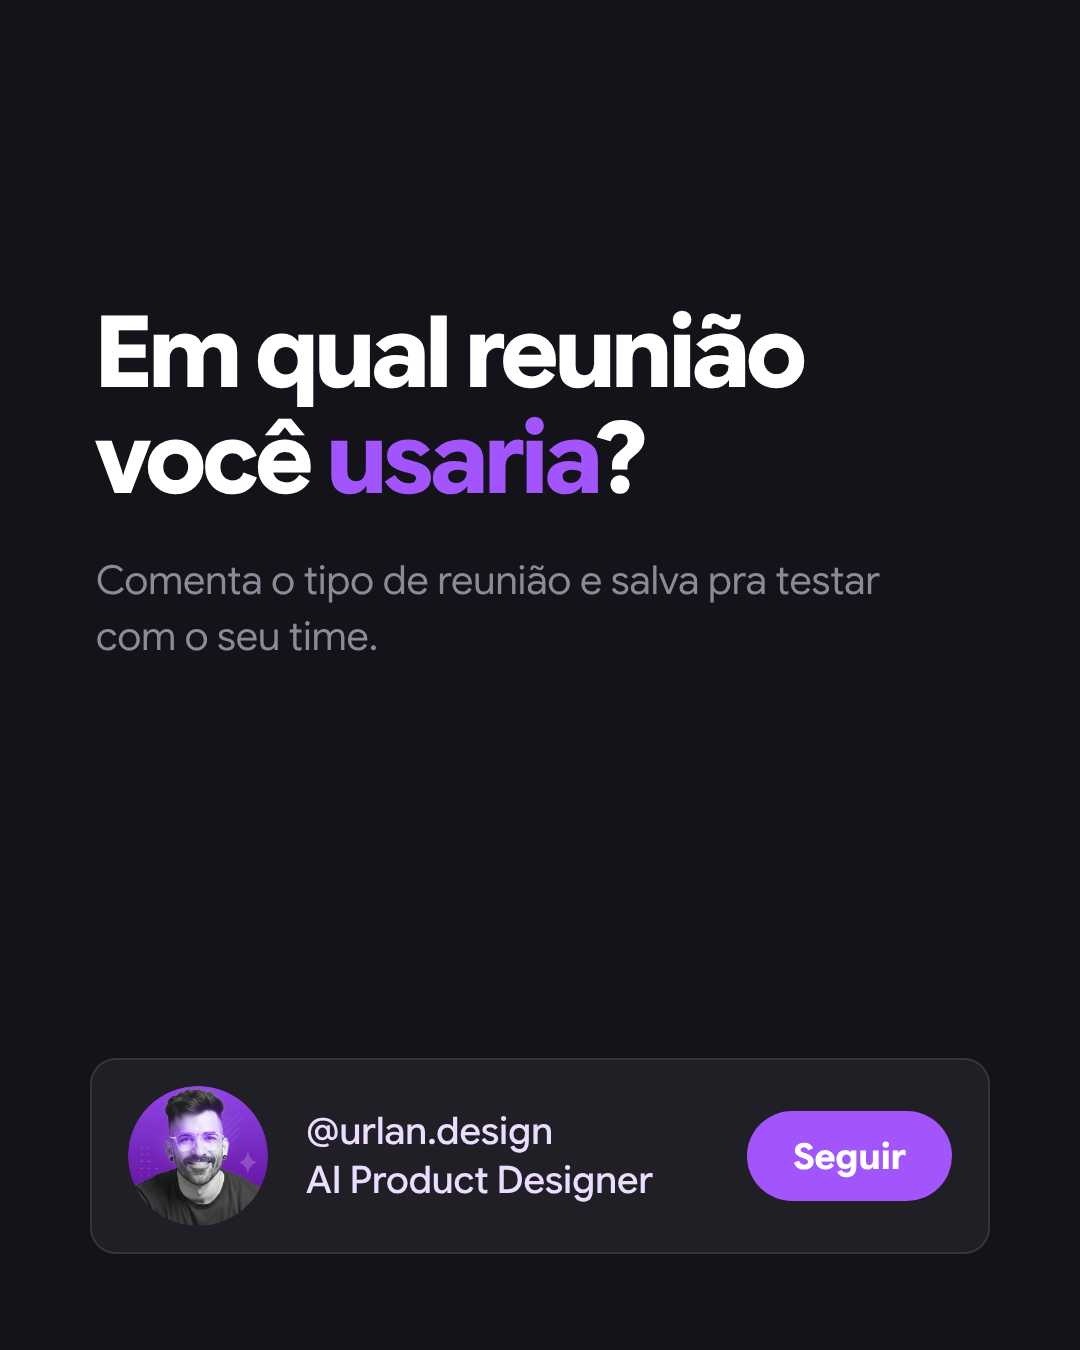
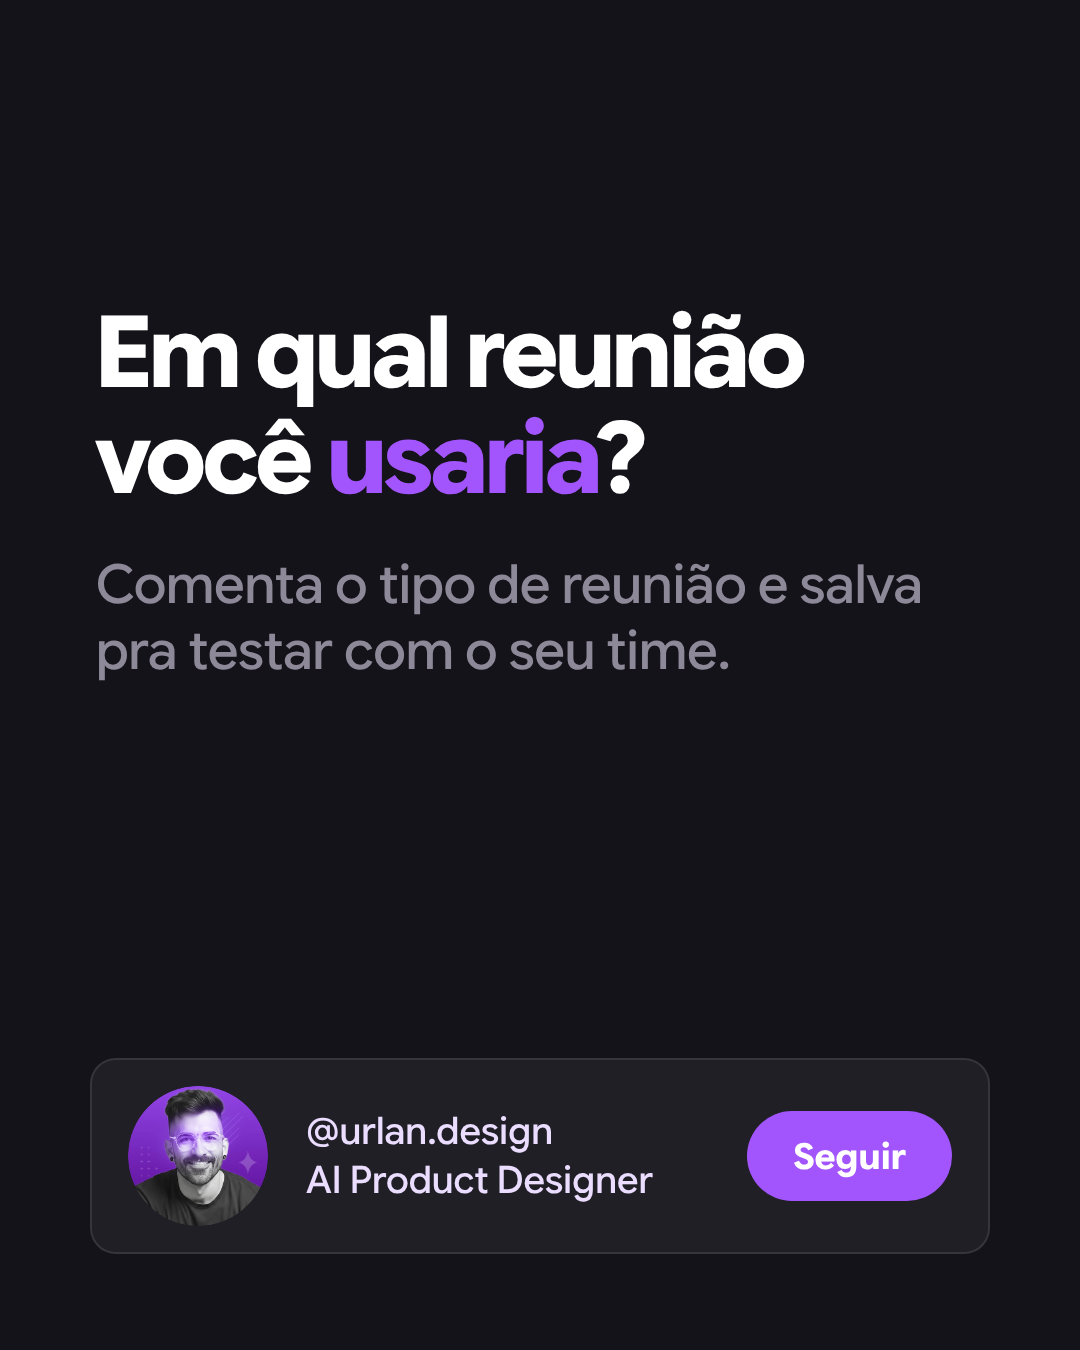
Fechamento do estilo texto com texto complementar maior
Claude-Session: https://claude.ai/code/session_01DwYVZ4p9qWAPLeHrrQbmUv

Changed region(s): [[0.0917, 0.4044, 0.8556, 0.4978]]

diff --git a/template/render.py b/template/render.py
@@ -204,7 +204,7 @@ def text_closing(p):
 <div class="s" style="background:{DARK};color:#fff">
   <div style="position:absolute;top:300px;left:96px;right:96px">
     <h2 class="h" style="font-size:100px;line-height:1.06">{rich(c['title'])}</h2>
-    <p style="margin-top:40px;font-size:40px;line-height:1.4;color:{DARK_MUTED};max-width:820px">{rich(c.get('body'))}</p>
+    <p style="margin-top:40px;font-size:54px;line-height:1.22;font-weight:500;color:{DARK_MUTED}">{rich(c.get('body'))}</p>
   </div>
   <div style="position:absolute;left:90px;right:90px;bottom:96px;height:196px;border-radius:26px;background:rgba(255,255,255,.05);
        border:2px solid rgba(255,255,255,.1);display:flex;align-items:center;padding:0 36px;gap:38px">
